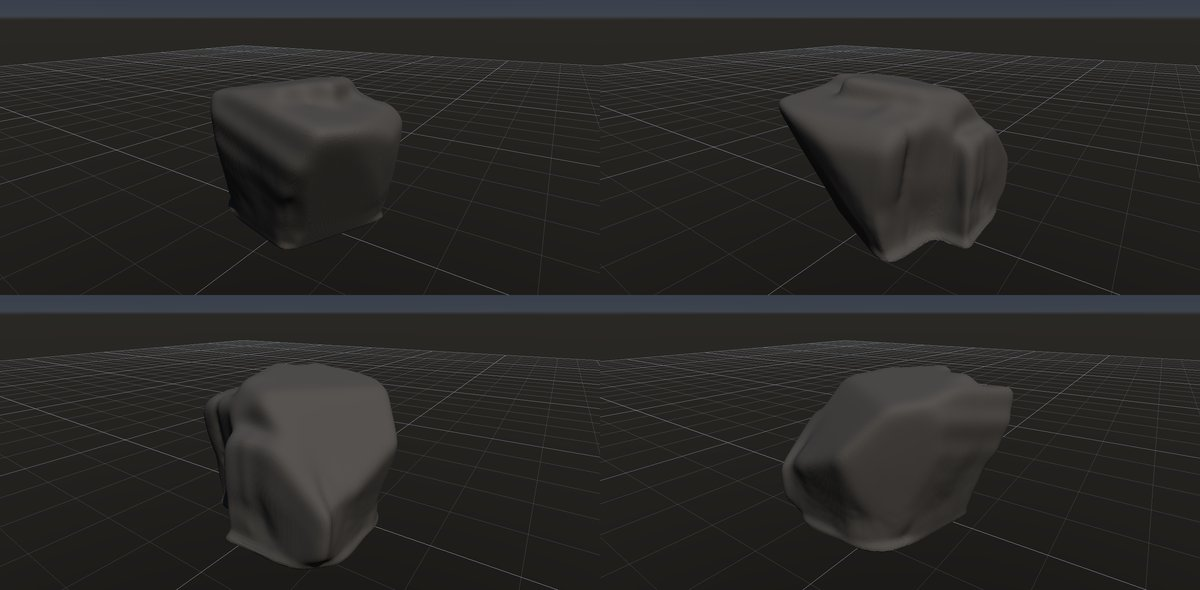
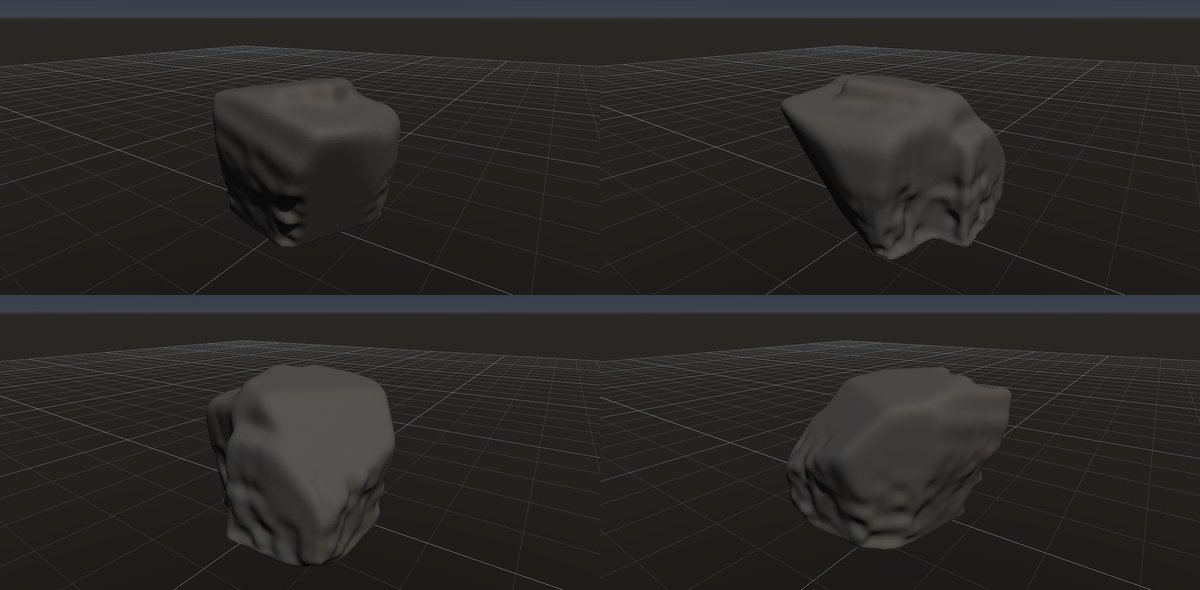
feat: Volume Erode のさらされた面を、横向きにも効く重みと風上側の円錐の開放度にする
- 重みは正面 1・横向き 0.5・裏 0 の集中乗。陰は来る向きを中心に 50° の円錐へ 16 本のレイで開放度を測る
- 風上のえぐれは前段の Volume Smooth（向きに集中・大きな半径）が面を皿状にしていたと切り分け、wind-erosion から外した
- limestone-rills の溝を細く縦に通るよう調整。研究ページ・仕様・skill・進捗を更新

diff --git a/src/geometry/Volume.cpp b/src/geometry/Volume.cpp
@@ -2316,33 +2316,37 @@ VolumeGrid ErodeVolume(const VolumeGrid& g, const VolumeErodeSettings& s, std::s
                            SampleGridValues(current, blurred, {surface.x, surface.y, surface.z + h}) - SampleGridValues(current, blurred, {surface.x, surface.y, surface.z - h})};
                     const float bl = std::sqrt(b.x * b.x + b.y * b.y + b.z * b.z);
                     if (bl > 0) b = {b.x / bl, b.y / bl, b.z / bl};
-                    const float facing = std::clamp(b.x * from.x + b.y * from.y + b.z * from.z, 0.f, 1.f);
+                    // 向きの重み: 正面（内積 1）で 1、横向き（内積 0）で 0.5 の集中乗、裏（内積 −1）で 0。
+                    // 横向きの面と縁にも弱く効かせ、風下は陰で守る。こうすると鼻先が最も後退し、側面がゆっくり削れて流線形に寄る。
+                    const float facing = std::clamp((b.x * from.x + b.y * from.y + b.z * from.z) * .5f + .5f, 0.f, 1.f);
                     weight = std::pow(facing, s.sharpness);
                     if (weight > 0 && shadowReach > 0) {
-                        // 風上へ向かって形に当たれば、他の部分の陰（風下）にある。少し広げた 5 本のレイ（中心と 4 方向）の
-                        // スフィアトレーシングで、当たった割合だけ弱める。表面のすぐ近く（3 セル）の当たりは自分の面なので数えない。
+                        // 風上側の開放度: 来る向きを中心に半頂角 50° の円錐へ 16 本のレイ（フィボナッチ格子）をスフィアトレーシングし、
+                        // 形に当たった割合だけ弱める。くぼみの中や風下は閉じていて削れず、凸な鼻先と縁は開けていて削れる
+                        // （1 方向のレイだけでは、くぼみができると底が削れ続けて自己強化する）。
+                        // 表面のすぐ近く（3 セル）の当たりは自分の面なので数えない。
                         const Vec3 start{surface.x + n.x * g.spacing, surface.y + n.y * g.spacing, surface.z + n.z * g.spacing};
                         const Vec3 side = std::abs(from.y) < .9f ? Vec3{-from.z, 0, from.x} : Vec3{1, 0, 0};
                         const float sl = std::sqrt(side.x * side.x + side.y * side.y + side.z * side.z);
                         const Vec3 u{side.x / sl, side.y / sl, side.z / sl};
                         const Vec3 v{from.y * u.z - from.z * u.y, from.z * u.x - from.x * u.z, from.x * u.y - from.y * u.x};
-                        const float spread = .35f;
-                        const Vec3 rays[5] = {from,
-                                              {from.x + u.x * spread, from.y + u.y * spread, from.z + u.z * spread},
-                                              {from.x - u.x * spread, from.y - u.y * spread, from.z - u.z * spread},
-                                              {from.x + v.x * spread, from.y + v.y * spread, from.z + v.z * spread},
-                                              {from.x - v.x * spread, from.y - v.y * spread, from.z - v.z * spread}};
+                        constexpr int kRays = 16;
+                        const float cosCone = std::cos(50.f * std::numbers::pi_v<float> / 180);
                         int hits = 0;
-                        for (const Vec3& ray : rays) {
-                            const float rl = std::sqrt(ray.x * ray.x + ray.y * ray.y + ray.z * ray.z);
+                        for (int i = 0; i < kRays; ++i) {
+                            const float c = 1 - (1 - cosCone) * (float(i) + .5f) / kRays, r = std::sqrt(std::max(0.f, 1 - c * c));
+                            const float phi = float(i) * 2.399963229728653f;
+                            const Vec3 ray{from.x * c + (u.x * std::cos(phi) + v.x * std::sin(phi)) * r,
+                                           from.y * c + (u.y * std::cos(phi) + v.y * std::sin(phi)) * r,
+                                           from.z * c + (u.z * std::cos(phi) + v.z * std::sin(phi)) * r};
                             float t = g.spacing * 3;
                             while (t < shadowReach) {
-                                const float d = SampleVolume(current, {start.x + ray.x / rl * t, start.y + ray.y / rl * t, start.z + ray.z / rl * t});
+                                const float d = SampleVolume(current, {start.x + ray.x * t, start.y + ray.y * t, start.z + ray.z * t});
                                 if (d < 0) { ++hits; break; }
                                 t += std::max(d, minimumStep);
                             }
                         }
-                        weight *= 1 - float(hits) / 5;
+                        weight *= 1 - float(hits) / kRays;
                     }
                 } else {
                     const float f = std::clamp(SampleGridValues(current, flow, surface) / flowScale, 0.f, 1.f);

diff --git a/tests/VolumeErodeTests.cpp b/tests/VolumeErodeTests.cpp
@@ -58,7 +58,15 @@ void RunVolumeErodeTests() {
     Check(Measure(blown, dual, geometry::VolumeMeshingMethod::DualContouring), "さらされた面: Dual Contouring でも閉じた表面にできる");
     Check(blown.dimensions == box.dimensions && blown.spacing == box.spacing, "格子は入力のまま");
     const float windward = CarvedAtFace(box, blown, 0, -1), leeward = CarvedAtFace(box, blown, 0, 1), top = CarvedAtFace(box, blown, 1, 1);
-    Check(windward > .06f && leeward < 1e-4f && top < 1e-4f, "さらされた面: 風上の面だけ削れ、風下と上面は変わらない");
+    Check(windward > .06f && leeward < 1e-4f && top < windward * .5f && top > 0,
+          "さらされた面: 風上の面が最も削れ、横向きの上面は弱く削れ、風下（陰）は変わらない");
+    {
+        geometry::VolumeErodeSettings narrow = wind;
+        narrow.sharpness = 8;
+        const auto focused = geometry::ErodeVolume(box, narrow, error);
+        Check(error.empty() && CarvedAtFace(box, focused, 1, 1) < .002f && CarvedAtFace(box, focused, 0, -1) > .06f,
+              "集中 8 では横向きの面はほとんど削れない");
+    }
     Check(windward <= .05f * 2 + 1e-3f, "さらされた面: 削る深さは量（0.05 × 2 m）を超えない");
     // 形を広げない: 入力で外だった格子点は外のまま（回の間の再距離化で内部の値は深くなることがある）。
     bool neverGrows = true;

diff --git a/src/graph/NodeParams.cpp b/src/graph/NodeParams.cpp
@@ -270,7 +270,8 @@ constexpr ParamDefinition kParams[] = {
     {K::VolumeErode, "volumeErode.amount", T::Float, 0, 0.3, kLongest, "量", "削る深さの合計の最大（全ての回を足して）。流線形にするなら 0.1 以上", C::Error},
     {K::VolumeErode, "volumeErode.direction", T::Float3, N, N, "向き（正規化しなくてよい）", "来る向き",
      "exposure 用。風・波・氷が来る向き（風上）。既定 [-1, 0, 0]（-X から吹く）。長さ 0 なら -X", C::None},
-    {K::VolumeErode, "volumeErode.sharpness", T::Float, 1, 8, "", "集中", "1 で向き（流れ）に広く効き、8 で正面（最も流れが集まる筋）だけ", C::Error},
+    {K::VolumeErode, "volumeErode.sharpness", T::Float, 1, 8, "", "集中",
+     "exposure: 正面を 1、横向きの面を 0.5 の集中乗で削る（1 で側面も半分削れ、8 で正面だけ）。風下は陰で守る。flow: 最も流れが集まる筋を 1 として流れの量の集中乗", C::Error},
     {K::VolumeErode, "volumeErode.shadow", T::Float, 0, 1, kLongest, "陰の距離",
      "exposure 用。風上へこの距離の中に形があれば陰（風下）として削らない。0 で陰を見ない", C::Error},
     {K::VolumeErode, "volumeErode.length", T::Float, 0.05, 1, kLongest, "筋の長さ", "flow 用。1 つの出発点から流れを追う長さ", C::Error},

diff --git a/docs/research/rocks.md b/docs/research/rocks.md
@@ -1,7 +1,7 @@
 # 岩の研究ページ
 
 作成日時: 2026-10-01 12:50
-更新日時: 2026-10-02 20:30
+更新日時: 2026-10-02 22:10
 
 「あらゆる種類の岩を作れること」を目標に、岩の種類ごとに今の出来・作り方・課題・改善の履歴を残すページ。一つずつ改善していく。足りないノードの整理（G 番号）は [岩の種類の網羅](../reference/rock-catalog.md)、組み方の手順は [skill](../../.agents/skills/rock-graph/SKILL.md)。
 
@@ -297,11 +297,12 @@
 
 - 状態: △
 - レシピ: [`limestone-rills`](../../examples/ai-recipes/limestone-rills.rockgraph)
-- 作り方: Random Boxes を Plane Cuts で割って傾いた大きな面を作り、丸めて接地。Volume Erode（流下。量 0.05、集中 3、筋の長さ 0.6、溝の幅 0.012、4 回）で、表面を雨水が流れ下る筋を追って流れが集まる所を溝に彫る。
+- 作り方: Random Boxes を Plane Cuts で割って傾いた大きな面を作り、丸めて接地。Volume Erode（流下。量 0.06、集中 4、筋の長さ 0.6、溝の幅 0.01、5 回、ばらつき 0.6・細かさ 16）で、表面を雨水が流れ下る筋を追って流れが集まる所を溝に彫る。細かいばらつきが筋を分けるきっかけになる。
 - 課題: 溝が布のひだのように太くうねり、リレンカレンの細く平行な溝にならない。流れが集まる所を広く削るので、Plane Cuts の平らな面がなまって溶けたように見える。頂の尖り（ピナクル）は無い。
 - 履歴:
   - 2026-10-01 鉛直の Parallel Planes の浅い割れ目で試作し、溝がほとんど見えなかった。
   - 2026-10-02 Volume Erode（流下）を足して溝を彫った。最初は底の縁に流れが溜まって段差になった（形の底で筋を終えるようにした）。集中 2 では全面が削れたので 3 にした。
+  - 2026-10-02 集中 4・溝の幅 0.01・5 回・細かいばらつき（0.6、細かさ 16）にして、溝が少し細く縦に通るようになった。まだひだ状。
 
 ### 風食
 
@@ -309,11 +310,12 @@
 
 - 状態: △
 - レシピ: [`wind-erosion`](../../examples/ai-recipes/wind-erosion.rockgraph)
-- 作り方: 風向き（-X から +X）に沿って細長い Random Boxes を Plane Cuts で割り、接地。Volume Smooth の「集中する向き」を風上（[-1, 0.25, 0]）へ向けて風上の面を丸め、Volume Erode（さらされた面。来る向き [-1, 0.15, 0]、量 0.1、集中 1、陰の距離 0.6、4 回）で風上の面を後退させる。砂が最も当たる地面の近く（ワールドの高さ 0.3 m）を Volume Undercut（帯の基準 world）の帯で削り、細かなくぼみ（pits）を薄く、Edge Wear を風上に集中。
-- 課題: 風上を向いた平らな面がそのまま後退して縁が残り、えぐれ（くぼみ）になる。ヤルダンのような流線形（風上が鈍く風下へ細る）にはならない。足元の帯は目立たない。
+- 作り方: 風向き（-X から +X）に沿って細長い Random Boxes を Plane Cuts で割り、接地。Volume Erode（さらされた面。来る向き [-1, 0.15, 0]、量 0.14、集中 1.5、陰の距離 0.6、6 回）で風上の面を後退させ、角と縁を丸める。砂が最も当たる地面の近く（ワールドの高さ 0.3 m）を Volume Undercut（帯の基準 world）の帯で削り、細かなくぼみ（pits）を薄く、Edge Wear を風上に集中。
+- 課題: 風上が斜めに削られた楔にはなるが、ヤルダンのような流線形（風上が鈍く丸く、風下へ細る）にはまだ遠い。足元の帯は目立たない。
 - 履歴:
   - 2026-10-02 初版。Volume Edge Wear の量を 0.1 まで上げると、風上の面に不自然な角張った切れ込みと穴ができた（0.05 に戻した）。足元の帯の深さ 0.1 は岩を上下に切り離してエラーになった（0.075）。くぼみのノイズを全面に掛けると軽石のように見えるので薄くした。
   - 2026-10-02 Volume Erode を足して風上の面を後退させた。試作で 3 つの不具合を潰した: 向きを格子点の法線で読むと深い格子点ほど向きが違い段々になる（表面の点で読む）、重なった箱の内部の歪んだ距離が削った面に迷路のような段として出る（先に再距離化）、回の間に帯の外の内部の値が深いまま残って次の回の法線が壊れボクセルのゴミになる（両方向の再距離化）。量 0.14・集中 1.5 では面がえぐれすぎたので 0.1・1 にした。
+  - 2026-10-02 えぐれの原因を切り分けた。Erode は立方体で一様に後退し角が丸まる正しい挙動で、くぼみは前段の Volume Smooth（向きに集中・半径 0.14）が面の中央を皿状にしていたもの（Smooth を外すと消えた）。Smooth を外し、Erode の重みを「横向きの面も半分削る」形にし、陰を 1 方向のレイから風上側 50° の円錐の開放度（16 本）に変えた（くぼみの中は閉じていて削れず、自己強化しない）。量 0.14・集中 1.5・6 回に戻した。
 
 ### 枕状溶岩
 

diff --git a/docs/reference/volume-erode.md b/docs/reference/volume-erode.md
@@ -1,7 +1,7 @@
 # Volume Erode — 向きで削る量を変える侵食
 
 作成日時: 2026-10-02 20:30
-更新日時: 2026-10-02 20:30
+更新日時: 2026-10-02 22:10
 
 ## 位置付け
 
@@ -36,7 +36,7 @@ Volume Smooth / Edge Wear の「集中する向き」は面を丸める・角を
 
 1. **内部の距離を測り直す**（最初の回の前）。削った後の表面は入力の内部の「深さ = 削る量」の等値面になるので、重なった立体（Random Boxes）の内部の歪んだ距離をそのまま使うと、削った面に隠れた箱の面が迷路のような段として出る。
 2. **重み**を格子点ごとに求める。向きは格子点ではなく最も近い表面の点 `p − d ∇d` で読む（格子点で読むと、深い格子点ほど表面と違う向きになり、削った面が段々になる）。
-   - `exposure`: ぼかした場（σ = 最長辺の 2%）の法線と「来る向き」の内積（0〜1）の `集中` 乗。陰の距離が 0 より大きければ、表面の点から風上へ 5 本のレイ（中心と 4 方向に 0.35 rad 広げる）をスフィアトレーシングし、形に当たった割合だけ弱める。表面のすぐ近く（3 セル）の当たりは自分の面なので数えない。
+   - `exposure`: ぼかした場（σ = 最長辺の 2%）の法線と「来る向き」の内積を 0〜1 に写した値（正面 1、横向き 0.5、裏 0）の `集中` 乗。横向きの面と縁にも弱く効かせ、風下は陰で守るので、鼻先が最も後退し側面がゆっくり削れる。陰の距離が 0 より大きければ、表面の点から来る向きを中心に半頂角 50° の円錐へ 16 本のレイ（フィボナッチ格子）をスフィアトレーシングし、形に当たった割合だけ弱める（風上側の開放度。くぼみの中や風下は閉じていて削れない）。表面のすぐ近く（3 セル）の当たりは自分の面なので数えない。
    - `flow`: 表面に近い格子点を出発点に、重力の面に沿う成分の向きへ 0.75 セルずつ進み、表面へ戻しながら筋を追う。通った格子点に流れの量を積み、溝の幅でぼかす。ほぼ水平な面（溜まる）、張り出しの下面（水が離れる）、形の底（岩を離れる）で筋を終える。表面の格子点の流れの量の上位 5% を 1 として `集中` 乗。
    - ばらつき: 表面の点の値ノイズで `1 − ばらつき × (1 − n) × 2` を掛ける。
 3. **重みをぼかす**（σ = 1.5 セル）。陰の判定やノイズが格子点ごとに飛ぶと削った面が段々になる。
@@ -46,7 +46,7 @@ Volume Smooth / Edge Wear の「集中する向き」は面を丸める・角を
 
 ## 注意
 
-- `exposure` は、平らな面が風上を向いているとその面全体が同じ速さで後退し、縁が残ってくぼみ（えぐれ）になる。ヤルダンのような流線形（風上が鈍く風下へ細る）にはまだならない。`集中` 1、量 0.1 以下、後に Edge Wear で縁を落とすと穏やか。
+- `exposure` は、平らな面は一様に後退し、角と縁は開けているので多めに丸まる（立方体で確認）。風上を向いた平らな面がくぼんで見えるときは、前段の Volume Smooth（向きに集中・大きな半径）が面の中央を皿状にしている。Smooth の半径が厚さの 1/3 を超えると起きるので、丸めは Erode に任せる。ヤルダンのような流線形（風上が鈍く風下へ細る）は、まだ楔のようになる程度。
 - `flow` は流れが集まる所を広く削るので、Plane Cuts の平らな面がなまる。溝だけを彫るなら `集中` を 3 以上、量を小さく。
 - 評価の時間: 解像度 128 で `exposure` 4 回が約 0.5 秒、`flow` 4 回が約 1 秒。
 

diff --git a/.agents/skills/rock-graph/SKILL.md b/.agents/skills/rock-graph/SKILL.md
@@ -106,6 +106,6 @@ python tools/rock_shot.py <graph> <out.png> [--yaw <度>] [--pitch <度>] [--ui]
 - **Peel の欠ける順序は Voronoi Fracture のノード ID にも依存する**: レシピを写して ID を振り直すと形が変わる（全て崩れることもある）。写すときは ID を保つ。
 - **後から足した所・削った所を別の素材で塗る**: Volume Diff Mask の Before に足す・削る前の Volume、Mesh に UV Unwrap の出力を繋ぐ（隙間を Volume Close で埋めた土、Volume Scatter で足した礫、割れ目）。Before はメッシュと同じ位置にそろえる（Volume Clip の接地の後から取る）。しきい値は後段の Noise・Edge Wear の揺れより大きく。
 - **水面・地面の近くなど、ワールドの高さで決まる帯**: Volume Undercut の `"reference": "world"` と `level`（m）。先に Volume Clip の `ground` で接地してから使う（波食ノッチ `wave-cut-notch`、風食の足元 `wind-erosion`）。
-- **向きで削る（風上の面を後退させる・流れの溝）**: Volume Erode。`"type": "exposure"` は `direction`（来る向き）を向く面を削り陰を残す（`wind-erosion`）。`"type": "flow"` は重力で流れ下る筋に沿って溝を彫る（`limestone-rills`）。量 0.1 を超えると平らな面がえぐれて縁が残る。中間ノードのプレビューは段々に見えるので、効果は最終メッシュ（Volume to Mesh の後）で判断する。
+- **向きで削る（風上の面を後退させる・流れの溝）**: Volume Erode。`"type": "exposure"` は `direction`（来る向き）を向く面を削り陰を残す（`wind-erosion`）。`"type": "flow"` は重力で流れ下る筋に沿って溝を彫る（`limestone-rills`）。前段に Volume Smooth の向き集中（大きな半径）を置くと面の中央が皿状にくぼむので、丸めは Erode に任せる。中間ノードのプレビューは段々に見えるので、効果は最終メッシュ（Volume to Mesh の後）で判断する。
 - **扁平な形を積む**（枕状溶岩の枕、寝た礫）: Volume Scatter の `lie`（寝かせる割合）で短い軸を上へ向ける。`blend` を上げすぎると形が溶け合って輪郭が消える（`pillow-lava` は 0.12）。
 - **Debug ビルドの Remesh** はスタックオーバーフローで落ちることがある。撮影・評価は Release を使う。

diff --git a/docs/changelog.md b/docs/changelog.md
@@ -1,11 +1,11 @@
 # Changelog
 
 作成日時: 2026-09-20 20:05
-更新日時: 2026-10-02 20:30
+更新日時: 2026-10-02 22:10
 
 ## 未リリース
 
-- Volume Erode ノードを足した。向きで削る量を変える侵食で、「さらされた面」（風・波・氷が来る向きを向く面ほど削り、他の部分の陰は削らない。風上の面が後退する）と「流下」（表面を重力で流れ下る筋を追い、流れが集まる所ほど削って溝にする）を選べる。仕様は [Volume Erode](reference/volume-erode.md)。レシピ `wind-erosion` に組み込み、石灰岩の溶食の縦溝 `limestone-rills` を足した。再距離化（`RedistanceInterior`）に、深すぎる値も直す両方向モードを足した（既存の呼び出しは従来どおり）。
+- Volume Erode ノードを足した。向きで削る量を変える侵食で、「さらされた面」（風・波・氷が来る向きを向く面ほど削り、他の部分の陰は削らない。風上の面が後退する）と「流下」（表面を重力で流れ下る筋を追い、流れが集まる所ほど削って溝にする）を選べる。仕様は [Volume Erode](reference/volume-erode.md)。レシピ `wind-erosion` に組み込み、石灰岩の溶食の縦溝 `limestone-rills` を足した。再距離化（`RedistanceInterior`）に、深すぎる値も直す両方向モードを足した（既存の呼び出しは従来どおり）。さらされた面の重みは横向きの面にも弱く効き、陰は風上側 50° の円錐の開放度で決める。
 
 - Volume Scatter に「寝かせる割合」を足した。楕円体・箱の一番短い軸を上へ向ける（0 で従来どおり一様な向き、1 で必ず寝る）。自重で扁平になった枕状溶岩の枕、水底に寝た礫。仕様は [Volume Scatter](reference/volume-scatter.md)。
 - Volume Undercut に「帯の基準」を足した。従来の「形の高さに対する位置」に加えて、「ワールドの高さ (m)」で帯の中心を決められる（波食ノッチの水面、砂が当たる地面の近く）。仕様は [Volume Undercut](reference/volume-undercut.md)。
